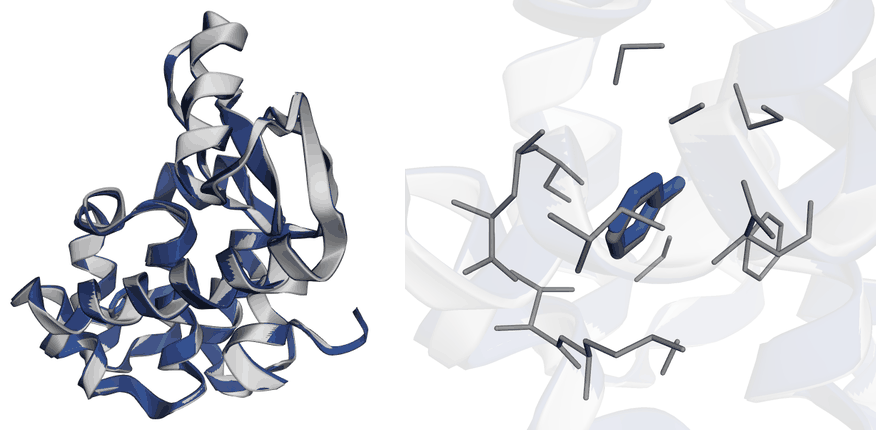
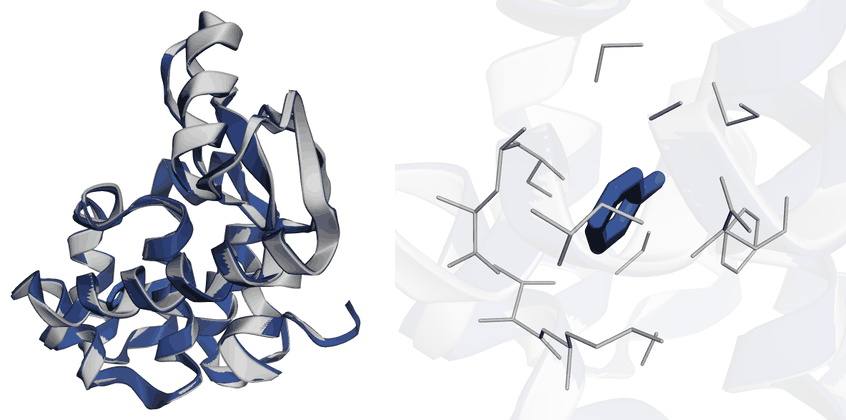
docs: add the co-folding confidence figure and explain the close-up
Two gaps you flagged. The second example had no confidence-coloured
render, so the two examples were presented differently for no stated
reason; it now has one, and its flatness is the point -- 96.3% of atoms
score >=90 against ubiquitin's spread across all four bands.

The close-up caption said only 'the cavity', which did not say what the
reader is looking at. It now names the blue ring as the prediction, the
black ring beneath as the crystallographic ligand, the faint sticks as
pocket side chains, and why the protein is drawn at 30% opacity.

Also fixes contrast in that panel: the reference ligand and the side
chains were near-identical greys.

diff --git a/README.md b/README.md
@@ -230,12 +230,25 @@ than a sequence. The reference is [7L39](https://www.rcsb.org/structure/7L39) at
 classic model system for ligand binding in a buried hydrophobic cavity.
 
 <p align="center">
+  <img src="assets/lysozyme_confidence.png" alt="Predicted complex coloured by pLDDT" width="300">
+</p>
+
+Confidence first, in the same four bands as before — and this time it is one flat colour.
+96.3% of atoms score ≥ 90 and the minimum is 68.6, so there is no uncertain region to find.
+Ubiquitin, by contrast, spans all four bands and its tail runs to orange.
+
+<p align="center">
   <img src="assets/lysozyme_toluene.png" alt="Predicted lysozyme-toluene complex superposed on 7L39" width="560">
 </p>
 
-Prediction in navy, crystal structure in grey. Left: the whole complex. Right: the cavity, with
-the predicted toluene (blue sticks) on top of the crystallographic one (grey), surrounded by the
-side chains lining the pocket.
+Prediction in navy, crystal structure in grey.
+
+**Left:** the whole complex superposed. **Right:** a close-up of the binding cavity, looking at
+the toluene itself. The **blue ring is the predicted ligand** and the **black ring directly
+beneath it is the crystallographic one** — they overlap almost exactly, which is the 0.33 Å in
+the table below. The faint grey sticks are the side chains lining the pocket, and the protein
+is drawn at 30% opacity because the cavity is buried and an opaque ribbon would hide the
+ligand entirely.
 
 | | |
 |---|---|
@@ -250,10 +263,6 @@ pose. It did, to within a third of an ångström.
 And `iptm` is finally meaningful. It read `0.0` for ubiquitin because a single chain has no
 interface; here it scores the protein–ligand interface at 0.94. For complexes, `iptm` is the
 number to watch, not `ptm`.
-
-There is no confidence-coloured render for this one because there would be nothing to see:
-96.3% of atoms score ≥ 90 and the minimum is 68.6, so the whole structure is one shade of dark
-blue. Ubiquitin spans all four bands, which is what makes that figure worth looking at.
 
 <details>
 <summary>How this image was made</summary>
